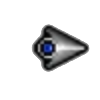
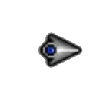
add minimap frame + fix for any transparent pixel

Changed region(s): [[0.3, 0.24, 0.9, 0.72]]

diff --git a/src/graphics/minimap.c b/src/graphics/minimap.c
@@ -6,7 +6,7 @@
 /*   By: jeulliot <jeulliot@student.42.fr>          +#+  +:+       +#+        */
 /*                                                +#+#+#+#+#+   +#+           */
 /*   Created: 2022/06/05 16:20:17 by seb               #+#    #+#             */
-/*   Updated: 2022/06/09 16:28:15 by jeulliot         ###   ########.fr       */
+/*   Updated: 2022/06/09 17:34:40 by jeulliot         ###   ########.fr       */
 /*                                                                            */
 /* ************************************************************************** */
 
@@ -20,7 +20,27 @@
 #include <graphics/raycaster.h>
 #include <utils/vec.h>
 
-static void minimap_rotate_arrow(t_game *game, t_texture *texture)
+static t_vec	minimap_get_pixel(t_game *game, t_texture *texture, t_vec pos)
+{	
+	t_vec	coord;
+	double	cos_a;
+	double	sin_a;
+
+	cos_a = cos (-game->player->direction);
+	sin_a = sin(-game->player->direction);
+	coord = (t_vec)
+	{
+		(int)((double)texture->width / 2
+			+ ((int)pos.x - (double)texture->width / 2) * cos_a
+			+ ((int)pos.y - (double)texture->height / 2) * sin_a),
+		(int)((double)texture->height / 2
+			+ ((int)pos.y - (double)texture->height / 2) * cos_a
+			- ((int)pos.x - (double)texture->width / 2) * sin_a)
+	};
+	return (coord);
+}
+
+static void	minimap_rotate_arrow(t_game *game, t_texture *texture)
 {
 	double	x;
 	double	y;
@@ -29,18 +49,49 @@ static void minimap_rotate_arrow(t_game *game, t_texture *texture)
 	while (y < texture->height)
 	{
 		x = 0;
-		while (x< texture->width)
+		while (x < texture->width)
 		{		
-		image_put_pixel(game->window->img, (t_vec){160 + (int)x - (double)texture->width/2, 160 + (int)y - (double)texture->height/2}, 
-				image_get_pixel(texture->img, 
-			(t_vec){
-				(int)((double)texture->width/2 + ((int)x - (double)texture->width/2) * cos (-game->player->direction) + (int)((int)y - (double)texture->height/2) * sin(-game->player->direction)), 
-				(int)((double)texture->height/2 + (int)((int)y - (double)texture->height/2) * cos (-game->player->direction) - ((int)x - (double)texture->width/2) * sin(-game->player->direction))
-				}, 
-			texture->width, texture->height));
+			image_put_pixel(game->window->img,
+				(t_vec)
+			{
+				160 + (int)x - (double)texture->width / 2,
+				160 + (int)y - (double)texture->height / 2
+			},
+				image_get_pixel(texture->img,
+					minimap_get_pixel(game, texture, (t_vec){x, y}),
+					texture->width, texture->height));
 		x ++;
 		}
 	y ++;
+	}
+}
+
+static void	minimap_frame(t_game *game)
+{
+	int	x;
+	int	y;
+
+	y = 0;
+	while (y < 320)
+	{
+		x = 0;
+		while (x < 4)
+		{
+			image_put_pixel(game->window->img, (t_vec){x, y}, 0x00000000);
+			x ++;
+		}
+		while (x < 316)
+		{
+			if ((y >= 0 && y < 4 )|| y >= 316)
+				image_put_pixel(game->window->img, (t_vec){x, y}, 0x00000000);
+			x ++;
+		}
+		while (x < 320)
+		{
+			image_put_pixel(game->window->img, (t_vec){x, y}, 0x00000000);
+			x ++;
+		}
+		y++;
 	}
 }
 
@@ -54,7 +105,10 @@ static void	minimap_draw_elem(t_game *game, int x, int y)
 	if (mapx < 0 || mapy < 0 || mapy > game->config->map_height - 1
 		|| (size_t)mapx > ft_strlen(game->config->map[mapy]) - 1
 		|| game->config->map[mapy][mapx] == ' ')
+	{
+		draw_rectangle(game, (t_vec){x, y}, (t_vec){4, 4}, 0x00404040);
 		return ;
+	}
 	else if (game->config->map[mapy][mapx] == '1')
 		draw_rectangle(game, (t_vec){x, y}, (t_vec){4, 4}, 0x00404040);
 	else if (game->config->map[mapy][mapx] == 'D')
@@ -80,4 +134,5 @@ void	minimap_draw(t_game *game)
 		y += 4;
 	}
 	minimap_rotate_arrow(game, game->config->textures[ARROW]);
+	minimap_frame(game);
 }

diff --git a/src/graphics/image.c b/src/graphics/image.c
@@ -6,7 +6,7 @@
 /*   By: jeulliot <jeulliot@student.42.fr>          +#+  +:+       +#+        */
 /*                                                +#+#+#+#+#+   +#+           */
 /*   Created: 2022/05/30 14:55:33 by swaegene          #+#    #+#             */
-/*   Updated: 2022/06/09 14:04:08 by jeulliot         ###   ########.fr       */
+/*   Updated: 2022/06/09 17:19:00 by jeulliot         ###   ########.fr       */
 /*                                                                            */
 /* ************************************************************************** */
 
@@ -20,7 +20,7 @@ void	image_put_pixel(t_image *img, t_vec coord, unsigned int color)
 {
 	char	*pixel;
 
-	if (color == 0xFF000000)
+	if (color >= 0x01000000)
 		return ;
 	if (coord.x >= 0 && coord.y >= 0
 		&& coord.x < WINDOW_WIDTH && coord.y < WINDOW_HEIGHT)
